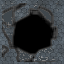
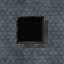
Added Automatic doors

diff --git a/js/drawing.js b/js/drawing.js
@@ -197,8 +197,13 @@ function update() // actualiza las variables antes del render
 
 	}
 	Machango.mov = (up || down || left || right);
-	Dungeon.ver(parseInt(Machango.casx / ancho), parseInt((Machango.casy)
-			/ ancho));// mensaje="("+(parseInt(Machango.casx/(ancho*2))+25)+",
+	Dungeon.ver(parseInt(Machango.casx / ancho), parseInt((Machango.casy) / ancho));
+
+  for(o=0;o<Dungeon.doors.length;o++){
+      if(Dungeon.doors[o].posx == parseInt((20 + Machango.casx) / ancho) && Dungeon.doors[o].posy == parseInt((20 + Machango.casy) / ancho))
+        Dungeon.doors[o].abre();
+  }
+  // mensaje="("+(parseInt(Machango.casx/(ancho*2))+25)+",
 	// "+(parseInt(Machango.casy/(ancho*2))+25)+"):
 	// "+Dungeon.getCell(parseInt(Machango.casx/(ancho*2))+25,
 	// parseInt(Machango.casy/(ancho*2))+25);
@@ -283,7 +288,12 @@ function update() // actualiza las variables antes del render
 		}
 
 	Machango.update();
+  if (Dungeon.doors.length > 0) {
+    for (a = 0; a < Dungeon.doors.length; a++) {
 
+      Dungeon.doors[a].update();
+    }
+  }
 	if (Dungeon.Aliens.length > 0) {
 		for (a = 0; a < Dungeon.Aliens.length; a++) {
 
@@ -345,6 +355,9 @@ function update() // actualiza las variables antes del render
 		// alert("Recargando");
 	}
 	panel.update();
+
+
+
 
 	// salida
 	if (Dungeon.getCell(parseInt((Machango.casx + 16) / ancho),
@@ -471,8 +484,8 @@ function dibujasuelo() // dibuja el suelo
 				} else
 					switch (n) {
 					case 0: {
-						ctx.fillStyle = "#090909";
-						ctx.fillRect(x * ancho, y * ancho, ancho, ancho);
+					//	ctx.fillStyle = "#090909";
+					//	ctx.fillRect(x * ancho, y * ancho, ancho, ancho);
 
 						break;
 					}
@@ -494,9 +507,9 @@ function dibujasuelo() // dibuja el suelo
 						break;
 					}
 					case 2: {
-						ctx.drawImage(piso12, x * ancho, y * ancho);
-						ctx.fillStyle = "rgba(90, 30, 0,0.4)";
-						ctx.fillRect(x * ancho, y * ancho, ancho, ancho);
+						ctx.drawImage(suelo, x * ancho, y * ancho);
+						//ctx.fillStyle = "rgba(90, 30, 0,0.2)";
+					//	ctx.fillRect(x * ancho, y * ancho, ancho, ancho);
 						break;
 					}
 					case 3: {
@@ -616,7 +629,11 @@ function dibujasuelo() // dibuja el suelo
 }
 
 function dibujaobj() {
-
+    if (Dungeon.doors.length > 0)
+    for (a = 0; a < Dungeon.doors.length; a++) {
+      if(Dungeon.isv(Dungeon.doors[a].posx, Dungeon.doors[a].posy))
+      Dungeon.doors[a].render();
+    }
 	if (Dungeon.items.length > 0) // dibuja items
 		for (a = 0; a < Dungeon.items.length; a++) {
 			Dungeon.items[a].render();

diff --git a/js/dungeon.js b/js/dungeon.js
@@ -8,6 +8,7 @@ var Dungeon = {
 	chanceRoom : 55,
 	chanceCorridor : 85,
 	dungeon_map : [],
+  doors: [],
 	visible : [],
 	Aliens : [],
 	spawner : [],
@@ -65,6 +66,7 @@ var Dungeon = {
 		this.Aliens = [];
 		this.items = [];
 		this.spawner = [];
+    this.doors = [];
 		// for(x=0;x<Dungeon.xsize*Dungeon.ysize;x++){
 		// Dungeon.visible.push(true);
 		// }
@@ -254,7 +256,14 @@ var Dungeon = {
 		// (repe)
 		Dungeon.dungeon_map[x + Dungeon.xsize * y] = celltype;
 
-		// if(celltype==7) Dungeon.Aliens.push(new Alien((x,y,15, zerg,ancho)));
+		 if(celltype==Dungeon.tileDoorclosed){
+       if(Dungeon.dungeon_map[x + Dungeon.xsize * (y + 1) ] == Dungeon.tileDirtWall && Dungeon.dungeon_map[x + Dungeon.xsize * (y - 1) ] == Dungeon.tileDirtWall)
+        Dungeon.doors.push(new puerta(x, y, true));
+      else
+        Dungeon.doors.push(new puerta(x, y, false));
+
+     }
+      Dungeon.unsetv(x,y);
 	},
 
 	getCell : function(x, y) {// obtiene el valor de una celda del tablero
@@ -271,8 +280,16 @@ var Dungeon = {
 				&& Dungeon.dungeon_map[(x) + Dungeon.xsize * (y)] < 16
 				&& !Dungeon.visible[(x) + Dungeon.xsize * (y)]) {
 			Dungeon.setv(x, y);
-			if (Dungeon.dungeon_map[(x) + Dungeon.xsize * (y)] == Dungeon.tileDoorclosed)
+			if (Dungeon.dungeon_map[(x) + Dungeon.xsize * (y)] == Dungeon.tileDoorclosed){
 				this.puerta = true;
+
+
+      }
+     /* for(a=0;a<Dungeon.doors.length;a++){
+        if(this.doors[a].casx==x*ancho && this.doors[a].casy==y*ancho){
+          this.doors[a].abrir();
+        }
+      }*/
 		}
 		if ((x > 0 && x < Dungeon.xsize)
 				&& Dungeon.dungeon_map[(x + 1) + Dungeon.xsize * (y)] >= 4
@@ -350,6 +367,8 @@ var Dungeon = {
 		if (Dungeon.dungeon_map[x + Dungeon.xsize * y] == Dungeon.tileChest
 				&& !Dungeon.isv(x, y))
 			Dungeon.items.push(new item(x, y, 1, botiquin));
+   
+      
 
 		Dungeon.visible[x + Dungeon.xsize * y] = true;
 		o = (x + 64 * y);

diff --git a/js/puerta.js b/js/puerta.js
@@ -1,0 +1,54 @@
+function puerta(x, y, hor) {
+	this.casx = x * ancho;
+	this.casy = y * ancho;
+	this.posx = x;
+	this.posy = y;
+	this.contador = 0;
+	this.anchospr = 64;
+	this.hori = hor; //¿horizontal?
+	this.open=true;
+	
+	this.update = function() {
+		if(!this.open){
+			if ( this.contador > 11 ) contador = 12;
+			else this.contador=this.contador+4;
+		}
+	}
+	this.render = function() {
+
+		if(!this.open){
+			if(this.hori){
+				ctx.drawImage(door,  ancho * this.contador, 0,
+					this.anchospr, this.anchospr,
+					 this.casx, this.casy,
+					  ancho, ancho);
+			}
+			else{
+				ctx.drawImage(doorv,  0, ancho * this.contador,
+					this.anchospr, this.anchospr,
+					 this.casx, this.casy,
+					  ancho, ancho);
+
+			}
+		}
+		else{
+			if(this.hori){
+				ctx.drawImage(door,  0, 0,
+					 this.anchospr, this.anchospr,
+					 this.casx, this.casy,
+					 ancho,	ancho);
+			}else{
+				ctx.drawImage(doorv,  0, ancho * this.contador,
+					 this.anchospr, this.anchospr,
+					 this.casx, this.casy,
+					 ancho,	ancho);
+
+			}
+		}
+	}
+
+	this.abre = function(){
+		this.open=false;
+	}
+	
+}

diff --git a/js/map.js b/js/map.js
@@ -17,6 +17,21 @@ cargando.onload = function() {
 
 cargando.src = "images/cargando.png";
 
+var doorReady = false;
+var door = new Image();
+door.onload = function() {
+  doorReady=true;
+};
+door.src ="images/puerta.png";
+
+var doorvReady = false;
+var doorv = new Image();
+doorv.onload = function() {
+  doorvReady=true;
+};
+
+doorv.src ="images/puertav.png";
+
 var fuegoReady = false;
 var fuego = new Image();
 fuego.onload = function() {
@@ -118,12 +133,6 @@ piso11.onload = function() {
 };
 piso11.src = "images/pisounder.png";
 
-var piso12Ready = false;
-var piso12 = new Image();
-piso12.onload = function() {
-	piso12Ready = true;
-};
-piso12.src = "images/piso00.png";
 
 var piso13Ready = false;
 var piso13 = new Image();

diff --git a/index.html b/index.html
@@ -18,6 +18,7 @@
 	<body >
         <script src="js/map.js"></script>
         <script src="js/panel.js"></script>
+        <script src="js/puerta.js"></script>
         <script src="js/drawing.js"></script>
         <script src="js/bala.js"></script>
         <script src="js/machango.js"></script>
